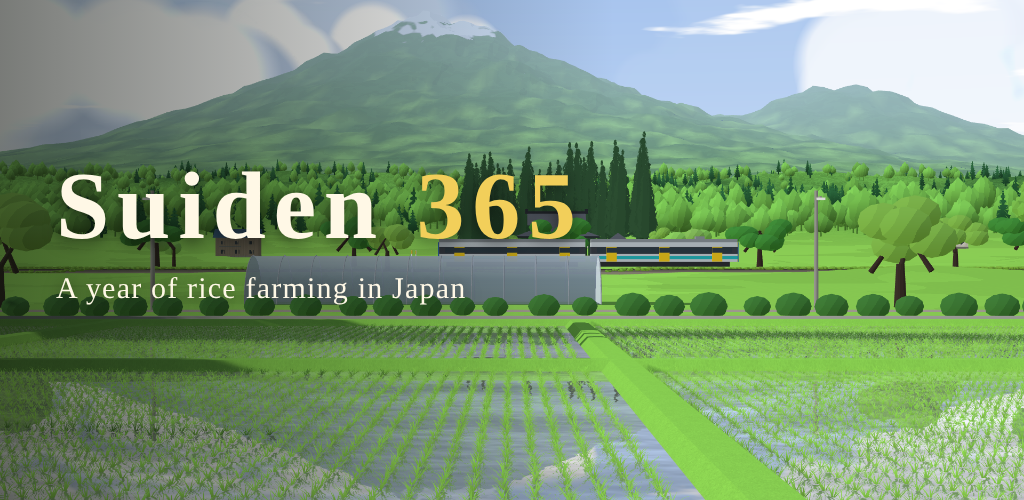
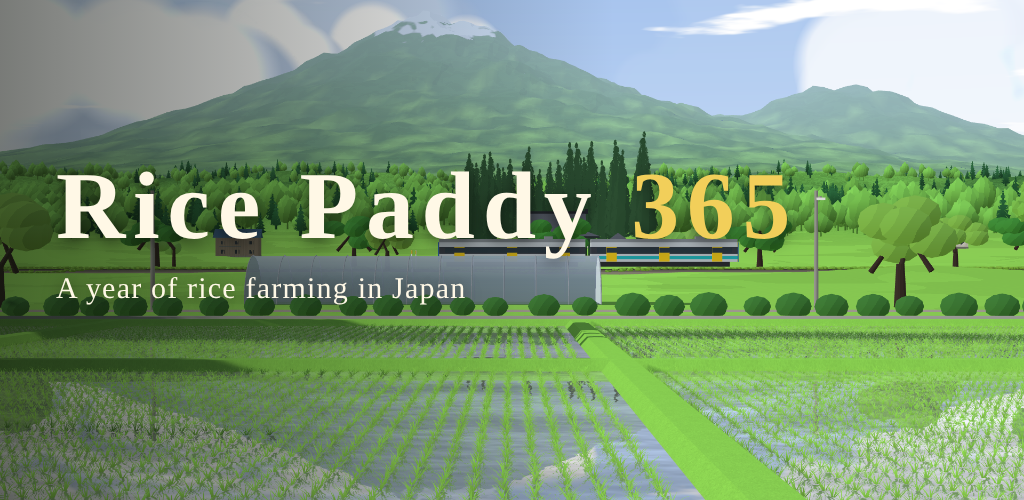
英語名を Rice Paddy 365 に変更、一時停止中は音を止めて作業もできないように
- 英語名：ホーム画面の名前、ゲーム内の英語タイトル、シェア文とハッシュタグ（#RicePaddy365）、
  ストアの英語のアプリ名（Rice Paddy 365: Farming Sim）と説明文、英語のフィーチャーグラフィック、LICENSE
- 一時停止画面を開いている間は音を止め、再開で戻す（別アプリから戻ったときや広告のあとも、一時停止中なら止めたまま）
- 一時停止中・広告やリワードの案内中は、田んぼをなぞっても作業（刈り取り・耕すなど）にならないように

Claude-Session: https://claude.ai/code/session_01UXdYbq5Cug7goTTvyKWCpS

Changed region(s): [[0.0625, 0.33, 0.5938, 0.54], [0.5938, 0.33, 0.7812, 0.51]]

diff --git a/js/main.js b/js/main.js
@@ -244,12 +244,13 @@ let lastSwish = 0;
 // 遠くの稲ほど指の太さが広い範囲に当たる
 const swipeRadius = (b) => clamp(camera.position.distanceTo(b) * 0.045, 0.9, 3);
 function doWork(a, b) {
+  if (state.paused) return;
   const n = farm.swipe(a, b, swipeRadius(b), state.t % 365);
   const now = performance.now();
   if (n && now - lastSwish > 90) lastSwish = now; // 効果音と振動は作業ごとに farmwork 側で
 }
 function doCut(a, b) {
-  if (!field.isHarvestable(state.t) || state.finalized) return;
+  if (state.paused || !field.isHarvestable(state.t) || state.finalized) return;
   const r = swipeRadius(b);
   const ids = field.cutAlong(a.x, a.z, b.x, b.z, r);
   if (!ids.length) return;
@@ -291,7 +292,8 @@ canvas.addEventListener('pointerdown', (e) => {
   const harvesting = !!(field.isHarvestable(state.t) && !state.finalized);
   const working = state.started && farm.active(state.t % 365).length > 0;
   const onHouse = working && farm.rayTest(ray, state.t % 365); // ハウスの雪下ろしは屋根をなぞる
-  const cutting = !!((onField || onHouse) && (harvesting || working));
+  // 一時停止中（時計が止まっている間）は作業できない
+  const cutting = !state.paused && !rewardOpen && !Ads.showing && !!((onField || onHouse) && (harvesting || working));
   pointer = { id: e.pointerId, x: e.clientX, y: e.clientY, g, cutting, touch: e.pointerType === 'touch' };
   if (cutting) trail.push({ x: e.clientX, y: e.clientY, t: performance.now() });
 });
@@ -308,7 +310,7 @@ canvas.addEventListener('pointermove', (e) => {
   if (!pointer || pointer.id !== e.pointerId) return;
   if (pointer.cutting) {
     const g = groundPoint(e);
-    farm.rayHit(ray, state.t % 365);
+    if (!state.paused) farm.rayHit(ray, state.t % 365);
     if (g && pointer.g) {
       // 細かく分割して取りこぼしを防ぐ
       const steps = Math.ceil(pointer.g.distanceTo(g) / 0.5);
@@ -663,10 +665,12 @@ function openPause() {
   ui.pause.textContent = '▶';
   renderRecords();
   $('menu').classList.add('show');
+  audio.suspend(); // 一時停止中は音も止める
 }
 async function resumeFromPause() {
   $('menu').classList.remove('show');
   try { await Ads.showInterstitial(3000); } catch (e) { /* 続ける */ }
+  audio.resume();
   state.paused = shown('eventCard') || shown('rewardAsk') ? true : false;
   ui.pause.textContent = state.paused ? '▶' : '❚❚';
 }
@@ -765,7 +769,7 @@ addEventListener('visibilitychange', () => {
     save();
     if (state.started && !shown('menu') && !shown('result') && !shown('eventCard') && !shown('rewardAsk')) openPause();
     audio.suspend();
-  } else audio.resume();
+  } else if (!shown('menu')) audio.resume(); // 一時停止画面のままなら音は止めたまま
 });
 // Android の戻るボタン：プレイ中は一時停止、一時停止中は再開、タイトルではアプリを終了
 if (native && window.Capacitor.Plugins && window.Capacitor.Plugins.App) {

diff --git a/js/i18n.js b/js/i18n.js
@@ -156,7 +156,7 @@ export const msg = {
   extended: (n) => LANG === 'ja' ? `稲刈りの延長 ${n}回` : `Harvest extended ${n}×`,
   shareText: (rec) => LANG === 'ja'
     ? `水田365日　${rec.year}年目の収穫は ${rec.kg.toLocaleString()}kg（${(rec.kg / 60).toFixed(1)}俵）、${rec.grade}でした。${rec.ext ? `（広告での手助け ${rec.ext}回）` : ''} #水田365日`
-    : `Suiden 365 — Year ${rec.year} harvest: ${rec.kg.toLocaleString()} kg (${(rec.kg / 60).toFixed(1)} bales), ${gradeText(rec.grade)}.${rec.ext ? ` (helped by ads ${rec.ext}×)` : ''} #Suiden365`,
+    : `Rice Paddy 365 — Year ${rec.year} harvest: ${rec.kg.toLocaleString()} kg (${(rec.kg / 60).toFixed(1)} bales), ${gradeText(rec.grade)}.${rec.ext ? ` (helped by ads ${rec.ext}×)` : ''} #RicePaddy365`,
   best: (r) => LANG === 'ja' ? `これまでの最高：${r.kg.toLocaleString()}kg（${r.year}年目・${r.grade}）` : `Best harvest: ${r.kg.toLocaleString()} kg (year ${r.year}, ${gradeText(r.grade)})`,
   confirmNewGame: () => LANG === 'ja' ? 'これまでの続きと記録は消えます。今日の日付から新しく始めますか？' : 'Your saved progress and records will be erased. Start a new game from today?',
   confirmReset: () => LANG === 'ja' ? '記録を消して最初からやり直しますか？' : 'Erase your records and start over?',
@@ -271,8 +271,8 @@ export function applyStatic() {
   document.documentElement.lang = LANG;
   document.querySelectorAll('[data-i18n]').forEach(el => { el.innerHTML = t(el.dataset.i18n); });
   if (LANG !== 'ja') {
-    document.title = 'Suiden 365 — A Year in the Rice Paddies';
+    document.title = 'Rice Paddy 365 — A Year of Rice Farming';
     const h1 = document.querySelector('h1');
-    if (h1 && !document.getElementById('enSub')) h1.insertAdjacentHTML('afterend', '<p class="pre" id="enSub">Suiden 365 · A Year in the Rice Paddies</p>');
+    if (h1 && !document.getElementById('enSub')) h1.insertAdjacentHTML('afterend', '<p class="pre" id="enSub">Rice Paddy 365 · A Year of Rice Farming</p>');
   }
 }

diff --git a/js/ads.js b/js/ads.js
@@ -72,7 +72,7 @@ window.Ads = (() => {
 
   function finish(kind, result) {
     showing = false;
-    window.GameSound && window.GameSound.resume();
+    if (!(document.getElementById('menu') && document.getElementById('menu').classList.contains('show'))) window.GameSound && window.GameSound.resume();
     syncBanner();
     const w = waiters[kind];
     waiters[kind] = null;

diff --git a/docs/store/listing.md b/docs/store/listing.md
@@ -83,7 +83,7 @@
 水田365日をリリースしました。山あいの田んぼで、米作りの一年をお楽しみください。
 </ja-JP>
 <en-US>
-Suiden 365 is here. Enjoy a year of rice farming in a mountain valley in Japan.
+Rice Paddy 365 is here. Enjoy a year of rice farming in a mountain valley in Japan.
 </en-US>
 ```
 
@@ -93,9 +93,9 @@ Suiden 365 is here. Enjoy a year of rice farming in a mountain valley in Japan.
 
 ### App name (30 characters max)
 
-Suiden 365: Rice Farming Sim
+Rice Paddy 365: Farming Sim
 
-(28 characters. The name on the home screen is "Suiden 365".)
+(27 characters. The name on the home screen is "Rice Paddy 365".)
 
 ### Short description (80 characters max)
 
@@ -106,7 +106,7 @@ A relaxing year of rice farming in rural Japan: plant, harvest, enjoy 4 seasons.
 Watch over a year of rice paddies in a mountain valley, about one day per minute.
 Snowmelt, flooded paddies mirroring the mountains, rice planting, green fields, golden ears of rice. And the harvest is in your hands.
 
-Suiden 365 is a relaxing rice farming simulation set in the countryside of Aizu, Fukushima, Japan.
+Rice Paddy 365 is a relaxing rice farming simulation set in the countryside of Aizu, Fukushima, Japan.
 The game starts on today's date and the seasons follow the real calendar. Enjoy the slow beauty of rural Japan while you take care of the farm work, from tilling the soil to harvesting the rice.
 
 ■ Farm work with a swipe
